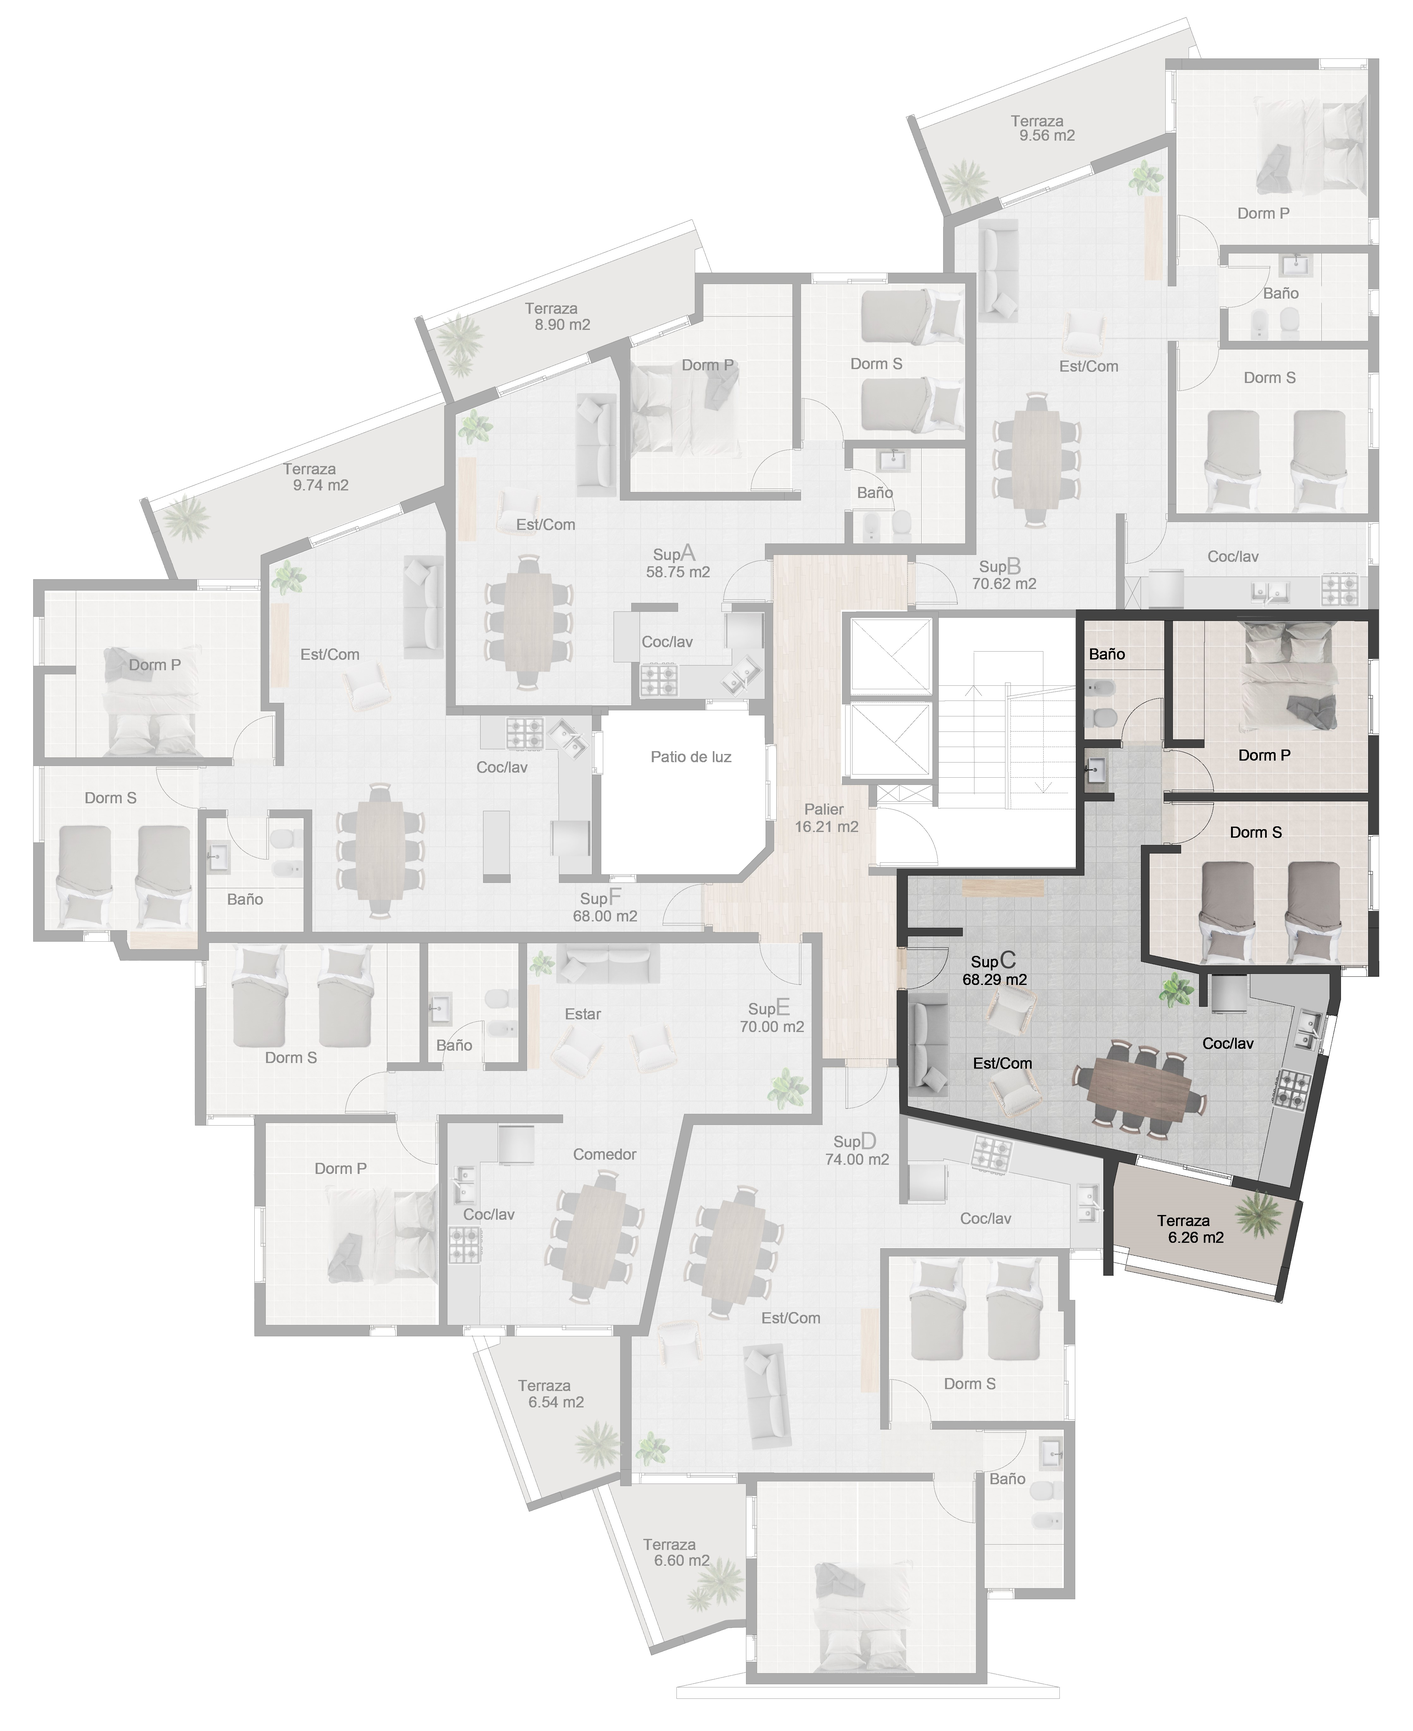
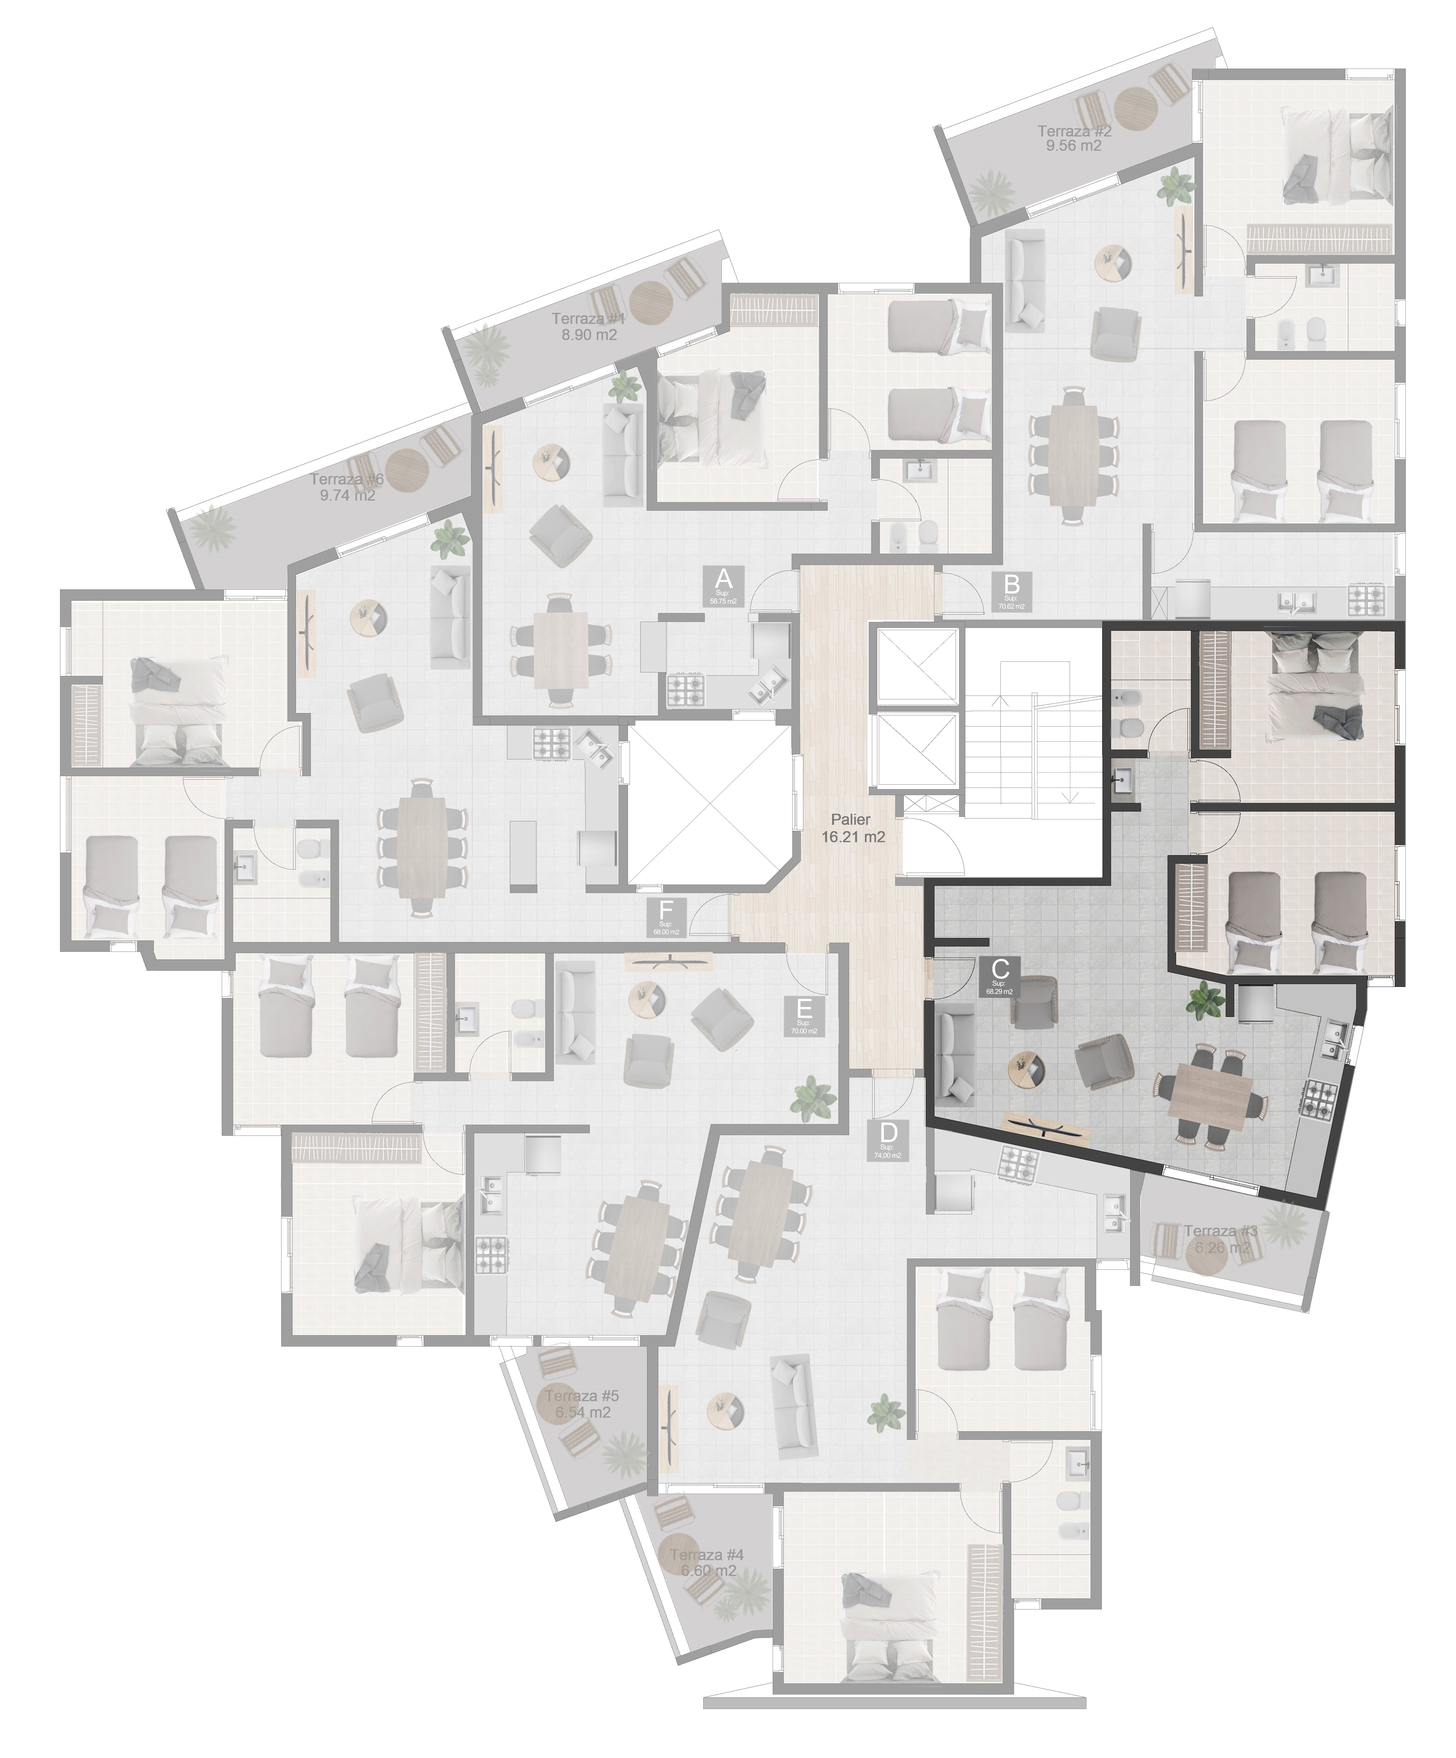
.

Changed region(s): [[0.0, 0.0, 0.9946, 0.9989], [0.5284, 0.2809, 0.5595, 0.3122]]

diff --git a/departamentos/index.html b/departamentos/index.html
@@ -312,8 +312,8 @@ height="0" width="0" style="display:none;visibility:hidden"></iframe></noscript>
 
 												<div class="img-box-dto" style="width:50%; padding:0px; margin:0 auto; text-align:center; display:inline-block; vertical-align:top; padding-bottom:30px;border-bottom:1px #CCC solid;">
 						
-                                                        <a data-fancybox="ATAI-1A" href="/images/DEPTO 1A.jpg">
-                                <img src="/images/DEPTO 1A.jpg" alt="" title="" class="img-dpto-box" />
+                                                        <a data-fancybox="ATAI-1A" href="/images/DEPTO 1y2A.jpg">
+                                <img src="/images/DEPTO 1y2A.jpg" alt="" title="" class="img-dpto-box" />
                             </a>
                                                     </div>
 
@@ -327,7 +327,7 @@ height="0" width="0" style="display:none;visibility:hidden"></iframe></noscript>
 				            Superficie Cubierta Total</div>
 
 						<div style="width:38%; text-align:right;  margin-top:20px;  vertical-align:top; display:inline-block; font-weight:500; color:#979797; font-size:14px">
-						    134.78m2</div>
+						    58.75m2</div>
                         
                         
 						
@@ -403,8 +403,8 @@ height="0" width="0" style="display:none;visibility:hidden"></iframe></noscript>
                     </div>
 
                     <div style="width:50%; padding:0px; margin:0 auto; text-align:center; display:inline-block; vertical-align:top;">
-                                                <a data-fancybox="ATAI-1A" href="/images/DEPTO 1A.jpg">
-                            <img src="/images/DEPTO 1A.jpg" alt="" title="" style="width:100%; max-width:289px; padding-top:20px;" class="imagen-plano" />
+                                                <a data-fancybox="ATAI-1A" href="/images/DEPTO 1y2A.jpg">
+                            <img src="/images/DEPTO 1y2A.jpg" alt="" title="" style="width:100%; max-width:289px; padding-top:20px;" class="imagen-plano" />
                         </a>
                                             </div>
 
@@ -426,8 +426,8 @@ height="0" width="0" style="display:none;visibility:hidden"></iframe></noscript>
 
 												<div class="img-box-dto" style="width:50%; padding:0px; margin:0 auto; text-align:center; display:inline-block; vertical-align:top; padding-bottom:30px;border-bottom:1px #CCC solid;">
 						
-                                                        <a data-fancybox="ATAI-1B" href="/images/DEPTO 1B.jpg">
-                                <img src="/images/DEPTO 1B.jpg" alt="" title="" class="img-dpto-box" />
+                                                        <a data-fancybox="ATAI-1B" href="/images/DEPTO 1y2B.jpg">
+                                <img src="/images/DEPTO 1y2B.jpg" alt="" title="" class="img-dpto-box" />
                             </a>
                                                     </div>
 
@@ -517,8 +517,8 @@ height="0" width="0" style="display:none;visibility:hidden"></iframe></noscript>
                     </div>
 
                     <div style="width:50%; padding:0px; margin:0 auto; text-align:center; display:inline-block; vertical-align:top;">
-                                                <a data-fancybox="ATAI-1B" href="/images/DEPTO 1B.jpg">
-                            <img src="/images/DEPTO 1B.jpg" alt="" title="" style="width:100%; max-width:289px; padding-top:20px;" class="imagen-plano" />
+                                                <a data-fancybox="ATAI-1B" href="/images/DEPTO 1y2B.jpg">
+                            <img src="/images/DEPTO 1y2B.jpg" alt="" title="" style="width:100%; max-width:289px; padding-top:20px;" class="imagen-plano" />
                         </a>
                                             </div>
 
@@ -656,8 +656,8 @@ height="0" width="0" style="display:none;visibility:hidden"></iframe></noscript>
 
 												<div class="img-box-dto" style="width:50%; padding:0px; margin:0 auto; text-align:center; display:inline-block; vertical-align:top; padding-bottom:30px;border-bottom:1px #CCC solid;">
 						
-                                                        <a data-fancybox="ATAI-1D" href="/images/DEPTO 1D.jpg">
-                                <img src="/images/DEPTO 1D.jpg" alt="" title="" class="img-dpto-box" />
+                                                        <a data-fancybox="ATAI-1D" href="/images/DEPTO 1y2D.jpg">
+                                <img src="/images/DEPTO 1y2D.jpg" alt="" title="" class="img-dpto-box" />
                             </a>
                                                     </div>
 
@@ -747,8 +747,8 @@ height="0" width="0" style="display:none;visibility:hidden"></iframe></noscript>
                     </div>
 
                     <div style="width:50%; padding:0px; margin:0 auto; text-align:center; display:inline-block; vertical-align:top;">
-                                                <a data-fancybox="ATAI-1D" href="/images/DEPTO 1D.jpg">
-                            <img src="/images/DEPTO 1D.jpg" alt="" title="" style="width:100%; max-width:289px; padding-top:20px;" class="imagen-plano" />
+                                                <a data-fancybox="ATAI-1D" href="/images/DEPTO 1y2D.jpg">
+                            <img src="/images/DEPTO 1y2D.jpg" alt="" title="" style="width:100%; max-width:289px; padding-top:20px;" class="imagen-plano" />
                         </a>
                                             </div>
 
@@ -771,8 +771,8 @@ height="0" width="0" style="display:none;visibility:hidden"></iframe></noscript>
 
 												<div class="img-box-dto" style="width:50%; padding:0px; margin:0 auto; text-align:center; display:inline-block; vertical-align:top; padding-bottom:30px;border-bottom:1px #CCC solid;">
 						
-                                                        <a data-fancybox="ATAI-1E" href="/images/DEPTO 1E.jpg">
-                                <img src="/images/DEPTO 1E.jpg" alt="" title="" class="img-dpto-box" />
+                                                        <a data-fancybox="ATAI-1E" href="/images/DEPTO 1y2E.jpg">
+                                <img src="/images/DEPTO 1y2E.jpg" alt="" title="" class="img-dpto-box" />
                             </a>
                                                     </div>
 
@@ -862,8 +862,8 @@ height="0" width="0" style="display:none;visibility:hidden"></iframe></noscript>
                     </div>
 
                     <div style="width:50%; padding:0px; margin:0 auto; text-align:center; display:inline-block; vertical-align:top;">
-                                                <a data-fancybox="ATAI-1E" href="/images/DEPTO 1E.jpg">
-                            <img src="/images/DEPTO 1E.jpg" alt="" title="" style="width:100%; max-width:289px; padding-top:20px;" class="imagen-plano" />
+                                                <a data-fancybox="ATAI-1E" href="/images/DEPTO 1y2E.jpg">
+                            <img src="/images/DEPTO 1y2E.jpg" alt="" title="" style="width:100%; max-width:289px; padding-top:20px;" class="imagen-plano" />
                         </a>
                                             </div>
 
@@ -886,8 +886,8 @@ height="0" width="0" style="display:none;visibility:hidden"></iframe></noscript>
 
 												<div class="img-box-dto" style="width:50%; padding:0px; margin:0 auto; text-align:center; display:inline-block; vertical-align:top; padding-bottom:30px;border-bottom:1px #CCC solid;">
 						
-                                                        <a data-fancybox="ATAI-1F" href="/images/DEPTO 1F.jpg">
-                                <img src="/images/DEPTO 1F.jpg" alt="" title="" class="img-dpto-box" />
+                                                        <a data-fancybox="ATAI-1F" href="/images/DEPTO 1y2F.jpg">
+                                <img src="/images/DEPTO 1y2F.jpg" alt="" title="" class="img-dpto-box" />
                             </a>
                                                     </div>
 
@@ -977,8 +977,8 @@ height="0" width="0" style="display:none;visibility:hidden"></iframe></noscript>
                     </div>
 
                     <div style="width:50%; padding:0px; margin:0 auto; text-align:center; display:inline-block; vertical-align:top;">
-                                                <a data-fancybox="ATAI-1F" href="/images/DEPTO 1F.jpg">
-                            <img src="/images/DEPTO 1F.jpg" alt="" title="" style="width:100%; max-width:289px; padding-top:20px;" class="imagen-plano" />
+                                                <a data-fancybox="ATAI-1F" href="/images/DEPTO 1y2F.jpg">
+                            <img src="/images/DEPTO 1y2F.jpg" alt="" title="" style="width:100%; max-width:289px; padding-top:20px;" class="imagen-plano" />
                         </a>
                                             </div>
 
@@ -1036,8 +1036,8 @@ height="0" width="0" style="display:none;visibility:hidden"></iframe></noscript>
                     </div>
 
                     <div style="width:50%; padding:0px; margin:0 auto; text-align:center; display:inline-block; vertical-align:top;">
-                                                <a data-fancybox="ATAI-2A" href="/images/DEPTO 2A.jpg">
-                            <img src="/images/DEPTO 2A.jpg" alt="" title="" style="width:100%; max-width:289px; padding-top:20px;" class="imagen-plano" />
+                                                <a data-fancybox="ATAI-2A" href="/images/DEPTO 1y2A.jpg">
+                            <img src="/images/DEPTO 1y2A.jpg" alt="" title="" style="width:100%; max-width:289px; padding-top:20px;" class="imagen-plano" />
                         </a>
                                             </div>
 
@@ -1060,8 +1060,8 @@ height="0" width="0" style="display:none;visibility:hidden"></iframe></noscript>
 
 												<div class="img-box-dto" style="width:50%; padding:0px; margin:0 auto; text-align:center; display:inline-block; vertical-align:top; padding-bottom:30px;border-bottom:1px #CCC solid;">
 						
-                                                        <a data-fancybox="ATAI-2A" href="/images/DEPTO 2A.jpg">
-                                <img src="/images/DEPTO 2A.jpg" alt="" title="" class="img-dpto-box" />
+                                                        <a data-fancybox="ATAI-2A" href="/images/DEPTO 1y2A.jpg">
+                                <img src="/images/DEPTO 1y2A.jpg" alt="" title="" class="img-dpto-box" />
                             </a>
                                                     </div>
 
@@ -1151,8 +1151,8 @@ height="0" width="0" style="display:none;visibility:hidden"></iframe></noscript>
                     </div>
 
                     <div style="width:50%; padding:0px; margin:0 auto; text-align:center; display:inline-block; vertical-align:top;">
-                                                <a data-fancybox="ATAI-2B" href="/images/DEPTO 2B.jpg">
-                            <img src="/images/DEPTO 2B.jpg" alt="" title="" style="width:100%; max-width:289px; padding-top:20px;" class="imagen-plano" />
+                                                <a data-fancybox="ATAI-2B" href="/images/DEPTO 1y2B.jpg">
+                            <img src="/images/DEPTO 1y2B.jpg" alt="" title="" style="width:100%; max-width:289px; padding-top:20px;" class="imagen-plano" />
                         </a>
                                             </div>
 
@@ -1175,8 +1175,8 @@ height="0" width="0" style="display:none;visibility:hidden"></iframe></noscript>
 
 												<div class="img-box-dto" style="width:50%; padding:0px; margin:0 auto; text-align:center; display:inline-block; vertical-align:top; padding-bottom:30px;border-bottom:1px #CCC solid;">
 						
-                                                        <a data-fancybox="ATAI-2B" href="/images/DEPTO 2B.jpg">
-                                <img src="/images/DEPTO 2B.jpg" alt="" title="" class="img-dpto-box" />
+                                                        <a data-fancybox="ATAI-2B" href="/images/DEPTO 1y2B.jpg">
+                                <img src="/images/DEPTO 1y2B.jpg" alt="" title="" class="img-dpto-box" />
                             </a>
                                                     </div>
 
@@ -1381,8 +1381,8 @@ height="0" width="0" style="display:none;visibility:hidden"></iframe></noscript>
                     </div>
 
                     <div style="width:50%; padding:0px; margin:0 auto; text-align:center; display:inline-block; vertical-align:top;">
-                                                <a data-fancybox="ATAI-2D" href="/images/DEPTO 2D.jpg">
-                            <img src="/images/DEPTO 2D.jpg" alt="" title="" style="width:100%; max-width:289px; padding-top:20px;" class="imagen-plano" />
+                                                <a data-fancybox="ATAI-2D" href="/images/DEPTO 1y2D.jpg">
+                            <img src="/images/DEPTO 1y2D.jpg" alt="" title="" style="width:100%; max-width:289px; padding-top:20px;" class="imagen-plano" />
                         </a>
                                             </div>
 
@@ -1405,8 +1405,8 @@ height="0" width="0" style="display:none;visibility:hidden"></iframe></noscript>
 
 												<div class="img-box-dto" style="width:50%; padding:0px; margin:0 auto; text-align:center; display:inline-block; vertical-align:top; padding-bottom:30px;border-bottom:1px #CCC solid;">
 						
-                                                        <a data-fancybox="ATAI-2D" href="/images/DEPTO 2D.jpg">
-                                <img src="/images/DEPTO 2D.jpg" alt="" title="" class="img-dpto-box" />
+                                                        <a data-fancybox="ATAI-2D" href="/images/DEPTO 1y2D.jpg">
+                                <img src="/images/DEPTO 1y2D.jpg" alt="" title="" class="img-dpto-box" />
                             </a>
                                                     </div>
 
@@ -1496,8 +1496,8 @@ height="0" width="0" style="display:none;visibility:hidden"></iframe></noscript>
                     </div>
 
                     <div style="width:50%; padding:0px; margin:0 auto; text-align:center; display:inline-block; vertical-align:top;">
-                                                <a data-fancybox="ATAI-2E" href="/images/DEPTO 2E.jpg">
-                            <img src="/images/DEPTO 2E.jpg" alt="" title="" style="width:100%; max-width:289px; padding-top:20px;" class="imagen-plano" />
+                                                <a data-fancybox="ATAI-2E" href="/images/DEPTO 1y2E.jpg">
+                            <img src="/images/DEPTO 1y2E.jpg" alt="" title="" style="width:100%; max-width:289px; padding-top:20px;" class="imagen-plano" />
                         </a>
                                             </div>
 
@@ -1520,8 +1520,8 @@ height="0" width="0" style="display:none;visibility:hidden"></iframe></noscript>
 
 												<div class="img-box-dto" style="width:50%; padding:0px; margin:0 auto; text-align:center; display:inline-block; vertical-align:top; padding-bottom:30px;border-bottom:1px #CCC solid;">
 						
-                                                        <a data-fancybox="ATAI-2E" href="/images/DEPTO 2E.jpg">
-                                <img src="/images/DEPTO 2E.jpg" alt="" title="" class="img-dpto-box" />
+                                                        <a data-fancybox="ATAI-2E" href="/images/DEPTO 1y2E.jpg">
+                                <img src="/images/DEPTO 1y2E.jpg" alt="" title="" class="img-dpto-box" />
                             </a>
                                                     </div>
 
@@ -1611,8 +1611,8 @@ height="0" width="0" style="display:none;visibility:hidden"></iframe></noscript>
                     </div>
 
                     <div style="width:50%; padding:0px; margin:0 auto; text-align:center; display:inline-block; vertical-align:top;">
-                                                <a data-fancybox="ATAI-2F" href="/images/DEPTO 2F.jpg">
-                            <img src="/images/DEPTO 2F.jpg" alt="" title="" style="width:100%; max-width:289px; padding-top:20px;" class="imagen-plano" />
+                                                <a data-fancybox="ATAI-2F" href="/images/DEPTO 1y2F.jpg">
+                            <img src="/images/DEPTO 1y2F.jpg" alt="" title="" style="width:100%; max-width:289px; padding-top:20px;" class="imagen-plano" />
                         </a>
                                             </div>
 
@@ -1635,8 +1635,8 @@ height="0" width="0" style="display:none;visibility:hidden"></iframe></noscript>
 
 												<div class="img-box-dto" style="width:50%; padding:0px; margin:0 auto; text-align:center; display:inline-block; vertical-align:top; padding-bottom:30px;border-bottom:1px #CCC solid;">
 						
-                                                        <a data-fancybox="ATAI-2F" href="/images/DEPTO 2F.jpg">
-                                <img src="/images/DEPTO 2F.jpg" alt="" title="" class="img-dpto-box" />
+                                                        <a data-fancybox="ATAI-2F" href="/images/DEPTO 1y2F.jpg">
+                                <img src="/images/DEPTO 1y2F.jpg" alt="" title="" class="img-dpto-box" />
                             </a>
                                                     </div>
 
@@ -4330,21 +4330,6 @@ height="0" width="0" style="display:none;visibility:hidden"></iframe></noscript>
 <a href="/images/gallery14.jpg" data-fancybox="gallery-10" style="display:none;"></a>
 <a href="/images/gallery15.jpg" data-fancybox="gallery-10" style="display:none;"></a>
 <a href="/images/gallery15.jpg" data-fancybox="gallery-10" style="display:none;"></a>
-<a href="/images/DEPTO 1Ab.jpg" data-fancybox="ATAI-1A" style="display:none;"></a>
-<a href="/images/DEPTO 1Bb.jpg" data-fancybox="ATAI-1B" style="display:none;"></a>
-<a href="/images/DEPTO 1Cb.jpg" data-fancybox="ATAI-1C" style="display:none;"></a>
-<a href="/images/DEPTO 1Db.jpg" data-fancybox="ATAI-1D" style="display:none;"></a>
-<a href="/images/DEPTO 1Eb.jpg" data-fancybox="ATAI-1E" style="display:none;"></a>
-<a href="/images/DEPTO 1Fb.jpg" data-fancybox="ATAI-1F" style="display:none;"></a>
-<a href="/images/DEPTO 2Ab.jpg" data-fancybox="ATAI-2A" style="display:none;"></a>
-<a href="/images/DEPTO 2Bb.jpg" data-fancybox="ATAI-2B" style="display:none;"></a>
-<a href="/images/DEPTO 2Cb.jpg" data-fancybox="ATAI-2C" style="display:none;"></a>
-<a href="/images/DEPTO 2Db.jpg" data-fancybox="ATAI-2D" style="display:none;"></a>
-<a href="/images/DEPTO 2Eb.jpg" data-fancybox="ATAI-2E" style="display:none;"></a>
-<a href="/images/DEPTO 2Fb.jpg" data-fancybox="ATAI-2F" style="display:none;"></a>
-<a href="/images/DEPTO 3Ab.jpg" data-fancybox="ATAI-3A" style="display:none;"></a>
-<a href="/images/DEPTO 3Bb.jpg" data-fancybox="ATAI-3B" style="display:none;"></a>
-<a href="/images/DEPTO 3Cb.jpg" data-fancybox="ATAI-3C" style="display:none;"></a>
 <a href="/images/2P - DEPTO F.jpg" data-fancybox="ATAII-1F" style="display:none;"></a>
 
 
